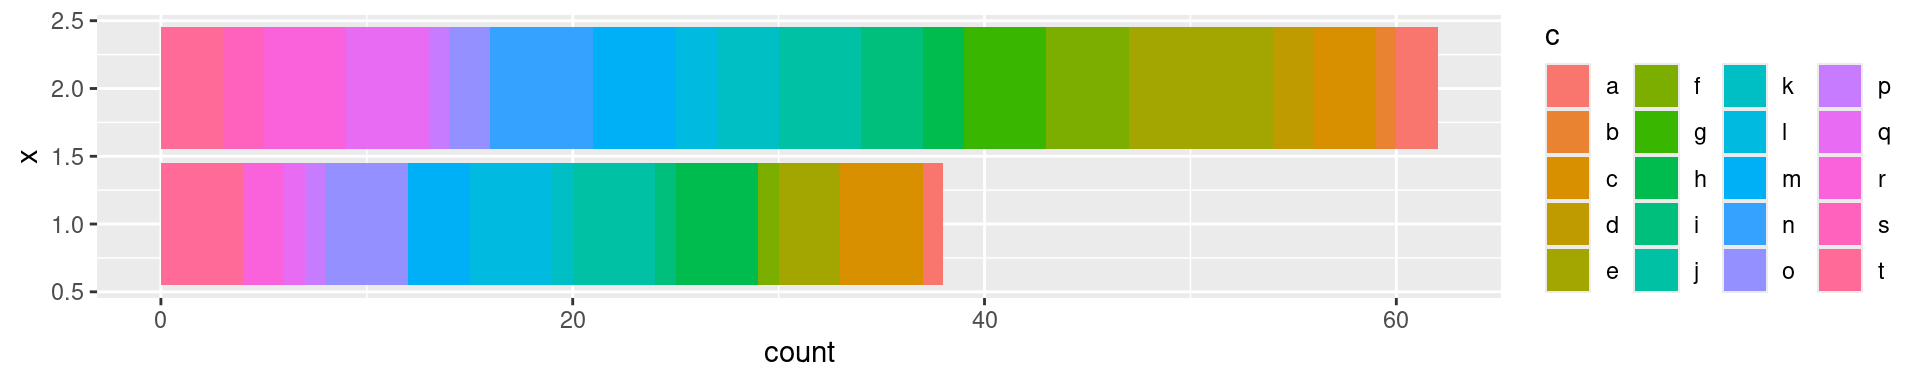
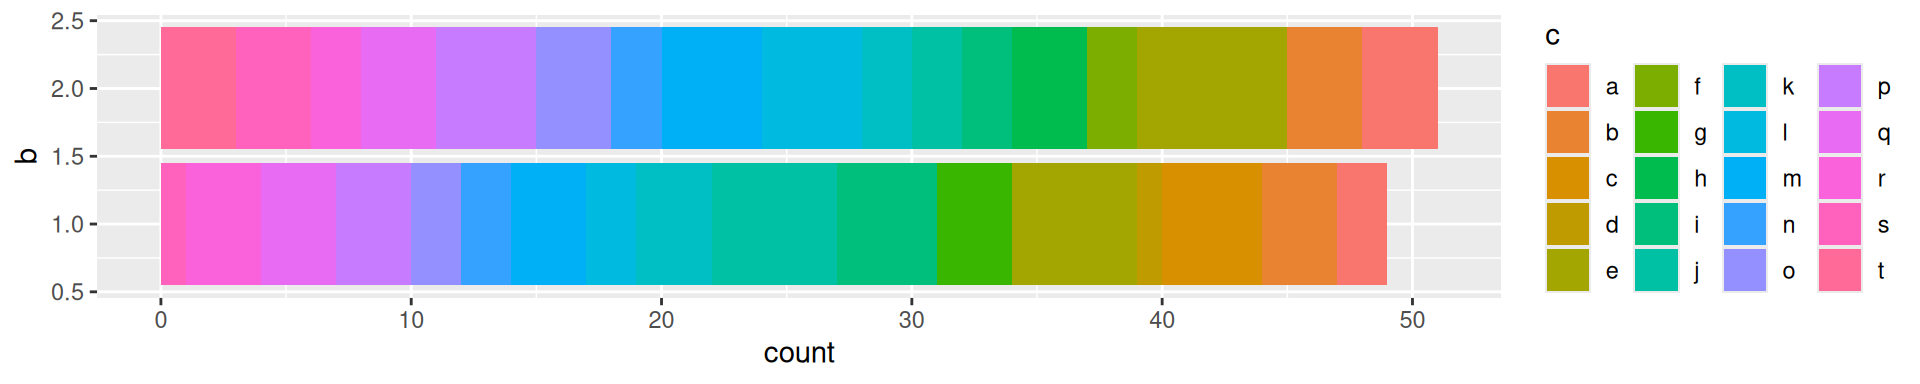
ggplot repel trick

diff --git a/docs/r/index.html b/docs/r/index.html
@@ -244,29 +244,30 @@
 
 <div id="TOC">
 <ul>
-<li><a href="#details-to-remember">Details to remember</a>
+<li><a href="#details-to-remember" id="toc-details-to-remember">Details to remember</a>
 <ul>
-<li><a href="#order-in-condition-assessment">Order in condition assessment</a></li>
+<li><a href="#order-in-condition-assessment" id="toc-order-in-condition-assessment">Order in condition assessment</a></li>
 </ul></li>
-<li><a href="#read-files-in-chunk">Read files in chunk</a></li>
-<li><a href="#graphs">Graphs</a>
+<li><a href="#read-files-in-chunk" id="toc-read-files-in-chunk">Read files in chunk</a></li>
+<li><a href="#graphs" id="toc-graphs">Graphs</a>
 <ul>
-<li><a href="#palette-with-many-colors">Palette with many colors</a></li>
-<li><a href="#ggplot2-tricks">ggplot2 tricks</a></li>
-<li><a href="#multi-panel-ggplots">Multi-panel ggplots</a></li>
-<li><a href="#change-font-in-ggplot2">Change font in ggplot2</a></li>
-<li><a href="#waffle-graphs">Waffle graphs</a></li>
-<li><a href="#gantt-charts">Gantt charts</a></li>
+<li><a href="#palette-with-many-colors" id="toc-palette-with-many-colors">Palette with many colors</a></li>
+<li><a href="#repel-pointslabels" id="toc-repel-pointslabels">Repel points/labels</a></li>
+<li><a href="#ggplot2-tricks" id="toc-ggplot2-tricks">ggplot2 tricks</a></li>
+<li><a href="#multi-panel-ggplots" id="toc-multi-panel-ggplots">Multi-panel ggplots</a></li>
+<li><a href="#change-font-in-ggplot2" id="toc-change-font-in-ggplot2">Change font in ggplot2</a></li>
+<li><a href="#waffle-graphs" id="toc-waffle-graphs">Waffle graphs</a></li>
+<li><a href="#gantt-charts" id="toc-gantt-charts">Gantt charts</a></li>
 </ul></li>
-<li><a href="#rmarkdown">Rmarkdown</a>
+<li><a href="#rmarkdown" id="toc-rmarkdown">Rmarkdown</a>
 <ul>
-<li><a href="#zoom-on-click-images">Zoom-on-click images</a></li>
-<li><a href="#beamer-presentation">Beamer presentation</a></li>
-<li><a href="#jekyll-website">Jekyll website</a></li>
+<li><a href="#zoom-on-click-images" id="toc-zoom-on-click-images">Zoom-on-click images</a></li>
+<li><a href="#beamer-presentation" id="toc-beamer-presentation">Beamer presentation</a></li>
+<li><a href="#jekyll-website" id="toc-jekyll-website">Jekyll website</a></li>
 </ul></li>
-<li><a href="#data.table-package"><em>data.table</em> package</a></li>
-<li><a href="#rcpp">Rcpp</a></li>
-<li><a href="#linux-setup">Linux setup</a></li>
+<li><a href="#data.table-package" id="toc-data.table-package"><em>data.table</em> package</a></li>
+<li><a href="#rcpp" id="toc-rcpp">Rcpp</a></li>
+<li><a href="#linux-setup" id="toc-linux-setup">Linux setup</a></li>
 </ul>
 </div>
 
@@ -332,13 +333,31 @@ nodes.df = read.csv(textConnection(lines.r), as.is=TRUE, header=TRUE)</code></pr
 }
 pal = interk(rainbow(20, s=.8), 5)</code></pre>
 <p>For example:</p>
-<pre class="r"><code>ggplot(bar.df, aes(x=x, fill=c)) + geom_bar() + coord_flip() +
+<pre class="r"><code>ggplot(sandbox.df, aes(x=b, fill=c)) + geom_bar() + coord_flip() +
   guides(fill=guide_legend(ncol=4))</code></pre>
 <p><img src="../fixed/r_files/figure-html/inter-palette-1.png" width="960" /></p>
-<pre class="r"><code>ggplot(bar.df, aes(x=x, fill=c)) + geom_bar() + coord_flip() +
+<pre class="r"><code>ggplot(sandbox.df, aes(x=b, fill=c)) + geom_bar() + coord_flip() +
   guides(fill=guide_legend(ncol=4)) + 
   scale_fill_manual(values=pal)</code></pre>
 <p><img src="../fixed/r_files/figure-html/inter-palette-2.png" width="960" /></p>
+<p>Another easy multi-color dark-ish palette is <code>scales::muted(rainbow(N), l=60)</code>, with <em>N</em> the number of colors wanted (see example below).</p>
+</div>
+<div id="repel-pointslabels" class="section level3">
+<h3>Repel points/labels</h3>
+<p>To label points, even when they are crammed.</p>
+<pre class="r"><code>library(ggrepel)
+library(dplyr)
+zoom.df = sandbox.df %&gt;% filter(x&gt;.6) %&gt;%
+  mutate(label=ifelse(x&gt;.9, paste(&#39;point&#39;, c, b, round(x,2)), &#39;&#39;))</code></pre>
+<pre class="r"><code>ggplot(zoom.df, aes(x=x, y=x, label=label)) + geom_point() +
+  geom_label_repel()</code></pre>
+<p><img src="../fixed/r_files/figure-html/repel-tricks-1.png" width="960" /></p>
+<pre class="r"><code>ggplot(zoom.df, aes(x=x, y=x, label=label)) + geom_point() +
+  geom_label_repel(aes(label=label), max.overlaps=Inf,
+                   nudge_x=sample(c(.01, -.01), nrow(zoom.df), TRUE)) +
+  scale_x_continuous(expand = expansion(mult = .2)) + 
+  scale_y_continuous(expand = expansion(mult = .2))</code></pre>
+<p><img src="../fixed/r_files/figure-html/repel-tricks-2.png" width="960" /></p>
 </div>
 <div id="ggplot2-tricks" class="section level3">
 <h3>ggplot2 tricks</h3>
@@ -544,6 +563,10 @@ knitr::kable(matrix(rnorm(10),10,10), format=&#39;latex&#39;)
 <li><a href="https://s3.amazonaws.com/assets.datacamp.com/blog_assets/datatable_Cheat_Sheet_R.pdf">Cheatsheet from DataCamp</a></li>
 </ul>
 <table>
+<colgroup>
+<col width="50%" />
+<col width="50%" />
+</colgroup>
 <thead>
 <tr class="header">
 <th><em>tidyverse</em></th>

diff --git a/content/fixed/r.html b/content/fixed/r.html
@@ -10,29 +10,30 @@ output:
 
 <div id="TOC">
 <ul>
-<li><a href="#details-to-remember">Details to remember</a>
+<li><a href="#details-to-remember" id="toc-details-to-remember">Details to remember</a>
 <ul>
-<li><a href="#order-in-condition-assessment">Order in condition assessment</a></li>
+<li><a href="#order-in-condition-assessment" id="toc-order-in-condition-assessment">Order in condition assessment</a></li>
 </ul></li>
-<li><a href="#read-files-in-chunk">Read files in chunk</a></li>
-<li><a href="#graphs">Graphs</a>
+<li><a href="#read-files-in-chunk" id="toc-read-files-in-chunk">Read files in chunk</a></li>
+<li><a href="#graphs" id="toc-graphs">Graphs</a>
 <ul>
-<li><a href="#palette-with-many-colors">Palette with many colors</a></li>
-<li><a href="#ggplot2-tricks">ggplot2 tricks</a></li>
-<li><a href="#multi-panel-ggplots">Multi-panel ggplots</a></li>
-<li><a href="#change-font-in-ggplot2">Change font in ggplot2</a></li>
-<li><a href="#waffle-graphs">Waffle graphs</a></li>
-<li><a href="#gantt-charts">Gantt charts</a></li>
+<li><a href="#palette-with-many-colors" id="toc-palette-with-many-colors">Palette with many colors</a></li>
+<li><a href="#repel-pointslabels" id="toc-repel-pointslabels">Repel points/labels</a></li>
+<li><a href="#ggplot2-tricks" id="toc-ggplot2-tricks">ggplot2 tricks</a></li>
+<li><a href="#multi-panel-ggplots" id="toc-multi-panel-ggplots">Multi-panel ggplots</a></li>
+<li><a href="#change-font-in-ggplot2" id="toc-change-font-in-ggplot2">Change font in ggplot2</a></li>
+<li><a href="#waffle-graphs" id="toc-waffle-graphs">Waffle graphs</a></li>
+<li><a href="#gantt-charts" id="toc-gantt-charts">Gantt charts</a></li>
 </ul></li>
-<li><a href="#rmarkdown">Rmarkdown</a>
+<li><a href="#rmarkdown" id="toc-rmarkdown">Rmarkdown</a>
 <ul>
-<li><a href="#zoom-on-click-images">Zoom-on-click images</a></li>
-<li><a href="#beamer-presentation">Beamer presentation</a></li>
-<li><a href="#jekyll-website">Jekyll website</a></li>
+<li><a href="#zoom-on-click-images" id="toc-zoom-on-click-images">Zoom-on-click images</a></li>
+<li><a href="#beamer-presentation" id="toc-beamer-presentation">Beamer presentation</a></li>
+<li><a href="#jekyll-website" id="toc-jekyll-website">Jekyll website</a></li>
 </ul></li>
-<li><a href="#data.table-package"><em>data.table</em> package</a></li>
-<li><a href="#rcpp">Rcpp</a></li>
-<li><a href="#linux-setup">Linux setup</a></li>
+<li><a href="#data.table-package" id="toc-data.table-package"><em>data.table</em> package</a></li>
+<li><a href="#rcpp" id="toc-rcpp">Rcpp</a></li>
+<li><a href="#linux-setup" id="toc-linux-setup">Linux setup</a></li>
 </ul>
 </div>
 
@@ -98,13 +99,31 @@ nodes.df = read.csv(textConnection(lines.r), as.is=TRUE, header=TRUE)</code></pr
 }
 pal = interk(rainbow(20, s=.8), 5)</code></pre>
 <p>For example:</p>
-<pre class="r"><code>ggplot(bar.df, aes(x=x, fill=c)) + geom_bar() + coord_flip() +
+<pre class="r"><code>ggplot(sandbox.df, aes(x=b, fill=c)) + geom_bar() + coord_flip() +
   guides(fill=guide_legend(ncol=4))</code></pre>
 <p><img src="/fixed/r_files/figure-html/inter-palette-1.png" width="960" /></p>
-<pre class="r"><code>ggplot(bar.df, aes(x=x, fill=c)) + geom_bar() + coord_flip() +
+<pre class="r"><code>ggplot(sandbox.df, aes(x=b, fill=c)) + geom_bar() + coord_flip() +
   guides(fill=guide_legend(ncol=4)) + 
   scale_fill_manual(values=pal)</code></pre>
 <p><img src="/fixed/r_files/figure-html/inter-palette-2.png" width="960" /></p>
+<p>Another easy multi-color dark-ish palette is <code>scales::muted(rainbow(N), l=60)</code>, with <em>N</em> the number of colors wanted (see example below).</p>
+</div>
+<div id="repel-pointslabels" class="section level3">
+<h3>Repel points/labels</h3>
+<p>To label points, even when they are crammed.</p>
+<pre class="r"><code>library(ggrepel)
+library(dplyr)
+zoom.df = sandbox.df %&gt;% filter(x&gt;.6) %&gt;%
+  mutate(label=ifelse(x&gt;.9, paste(&#39;point&#39;, c, b, round(x,2)), &#39;&#39;))</code></pre>
+<pre class="r"><code>ggplot(zoom.df, aes(x=x, y=x, label=label)) + geom_point() +
+  geom_label_repel()</code></pre>
+<p><img src="/fixed/r_files/figure-html/repel-tricks-1.png" width="960" /></p>
+<pre class="r"><code>ggplot(zoom.df, aes(x=x, y=x, label=label)) + geom_point() +
+  geom_label_repel(aes(label=label), max.overlaps=Inf,
+                   nudge_x=sample(c(.01, -.01), nrow(zoom.df), TRUE)) +
+  scale_x_continuous(expand = expansion(mult = .2)) + 
+  scale_y_continuous(expand = expansion(mult = .2))</code></pre>
+<p><img src="/fixed/r_files/figure-html/repel-tricks-2.png" width="960" /></p>
 </div>
 <div id="ggplot2-tricks" class="section level3">
 <h3>ggplot2 tricks</h3>
@@ -310,6 +329,10 @@ knitr::kable(matrix(rnorm(10),10,10), format=&#39;latex&#39;)
 <li><a href="https://s3.amazonaws.com/assets.datacamp.com/blog_assets/datatable_Cheat_Sheet_R.pdf">Cheatsheet from DataCamp</a></li>
 </ul>
 <table>
+<colgroup>
+<col width="50%" />
+<col width="50%" />
+</colgroup>
 <thead>
 <tr class="header">
 <th><em>tidyverse</em></th>
